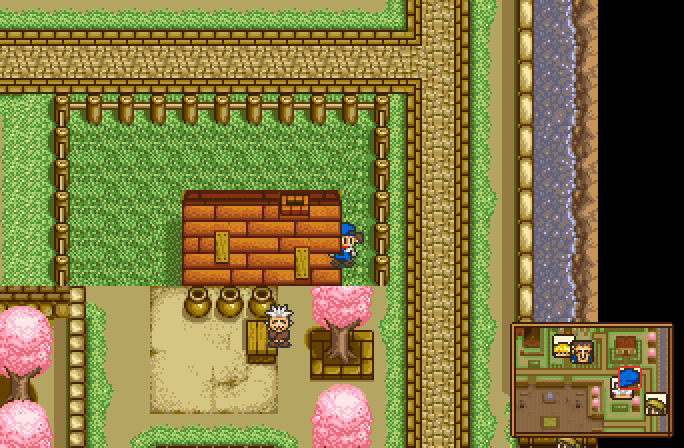
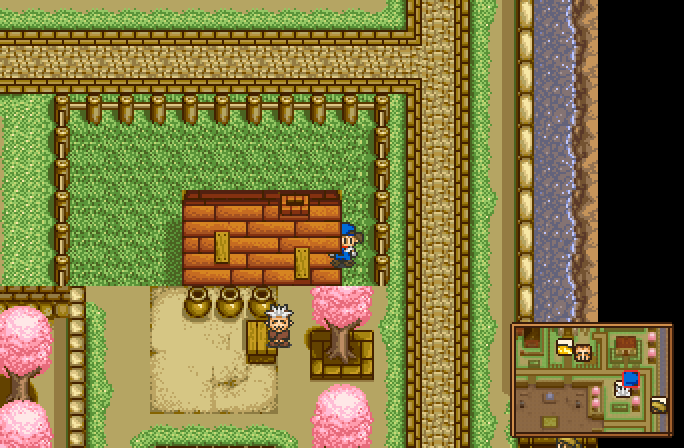
Map and minimap: smaller face badges

Changed region(s): [[0.8904, 0.8125, 0.9825, 0.9375], [0.7982, 0.75, 0.8904, 0.8125]]

diff --git a/src/hm_pause.c b/src/hm_pause.c
@@ -793,17 +793,24 @@ static void draw_calendar(int x, int y)
 }
 
 /* ── Map ─────────────────────────────────────────────────────────────── */
-/* Someone's face from their own sprite, in an 18x18 frame (red for you). */
-static void badge(int x, int y, uint16_t id, bool me)
+/* Someone's face from their own sprite: an 18x18 frame for the list on the
+ * right, a 12x12 one (the middle of the face) on the map itself. Red is you. */
+static void badge_sized(int x, int y, uint16_t id, bool me, int sz)
 {
-  rect(x + 1, y, 16, 18, me ? RED : WOOD_EDGE);
-  rect(x, y + 1, 18, 16, me ? RED : WOOD_EDGE);
-  rect(x + 1, y + 1, 16, 16, CREAM);
+  int in = sz - 2, off = (16 - in) / 2;
+  rect(x + 1, y, sz - 2, sz, me ? RED : WOOD_EDGE);
+  rect(x, y + 1, sz, sz - 2, me ? RED : WOOD_EDGE);
+  rect(x + 1, y + 1, in, in, CREAM);
   const uint32_t *f = hm_minimap_face(id);
   if (f)
-    for (int j = 0; j < 16; j++)
-      for (int i = 0; i < 16; i++) if (f[j * 16 + i]) px(x + 1 + i, y + 1 + j, f[j * 16 + i]);
+    for (int j = 0; j < in; j++)
+      for (int i = 0; i < in; i++) {
+        int fy = j + (sz < 18 ? 1 : 0), fx = i + off;
+        uint32_t c = f[fy * 16 + fx];
+        if (c) px(x + 1 + i, y + 1 + j, c);
+      }
 }
+static void badge(int x, int y, uint16_t id, bool me) { badge_sized(x, y, id, me, 18); }
 
 static void draw_map(int x, int y)
 {
@@ -838,9 +845,9 @@ static void draw_map(int x, int y)
 #define MAPY(wy) (my + ((wy) - y0) / 4 / k * u + u / 2)
     n_people = hm_minimap_people(xs, ys, ids, 40);
     for (int i = 0; i < n_people; i++)
-      badge(MAPX(xs[i]) - 9, MAPY(ys[i] - 8) - 9, ids[i], false);
-    badge(MAPX(hm_rd16(g_ram, HM_PLAYER_X)) - 9, MAPY(hm_rd16(g_ram, HM_PLAYER_Y) - 8) - 9,
-          hm_minimap_player_sprite(), true);
+      badge_sized(MAPX(xs[i]) - 6, MAPY(ys[i] - 8) - 6, ids[i], false, 12);
+    badge_sized(MAPX(hm_rd16(g_ram, HM_PLAYER_X)) - 6, MAPY(hm_rd16(g_ram, HM_PLAYER_Y) - 8) - 6,
+                hm_minimap_player_sprite(), true, 12);
 #undef MAPX
 #undef MAPY
   } else {

diff --git a/src/hm_minimap.c b/src/hm_minimap.c
@@ -418,22 +418,23 @@ static void draw_hud(void)
     int cx = (me ? hm_rd16(g_ram, HM_PLAYER_X) : xs[i]) / u - vx;
     int cy = ((me ? hm_rd16(g_ram, HM_PLAYER_Y) : ys[i]) - 8) / u - vy;   /* feet -> body */
     if (cx < 0 || cy < 0 || cx >= HUD_W || cy >= HUD_H) continue;
-    /* a 12x12 badge, kept inside the map window */
-    int ix = cx - 6, iy = cy - 6;
+    /* a 9x9 badge (the face's 7x7 middle), kept inside the map window */
+    enum { BS = 9 };
+    int ix = cx - BS / 2, iy = cy - BS / 2;
     if (ix < 0) ix = 0;
     if (iy < 0) iy = 0;
-    if (ix > HUD_W - 12) ix = HUD_W - 12;
-    if (iy > HUD_H - 12) iy = HUD_H - 12;
+    if (ix > HUD_W - BS) ix = HUD_W - BS;
+    if (iy > HUD_H - BS) iy = HUD_H - BS;
     const uint32_t *face = hm_minimap_face(id);
-    for (int y = 0; y < 12; y++) {
+    for (int y = 0; y < BS; y++) {
       uint32_t *row = (uint32_t *)(buf + (size_t)(by + HUD_B + iy + y) * g_ppu->renderPitch);
-      for (int x = 0; x < 12; x++) {
-        bool border = x == 0 || y == 0 || x == 11 || y == 11;
-        bool corner = (x == 0 || x == 11) && (y == 0 || y == 11);
+      for (int x = 0; x < BS; x++) {
+        bool border = x == 0 || y == 0 || x == BS - 1 || y == BS - 1;
+        bool corner = (x == 0 || x == BS - 1) && (y == 0 || y == BS - 1);
         if (corner) continue;
         uint32_t c = border ? (me ? red : edge) : cream;
         if (!border && face) {
-          uint32_t f = face[(y + 1) * 16 + (x + 2)];   /* the face's 10x10 middle */
+          uint32_t f = face[(y + 2) * 16 + (x + 4)];
           if (f) c = f;
         }
         put(row, bx + HUD_B + ix + x, width, c);
